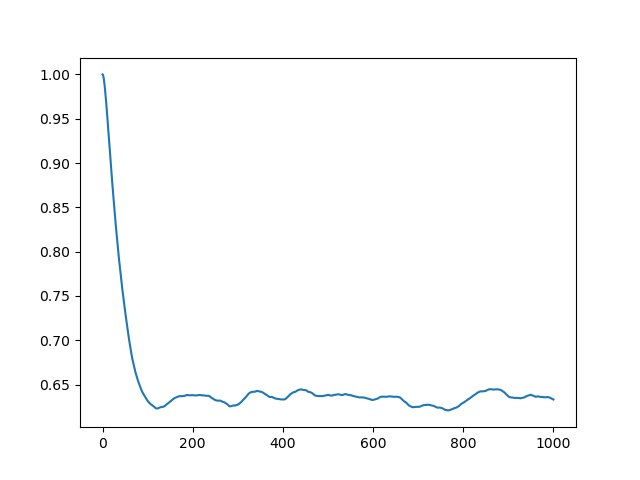
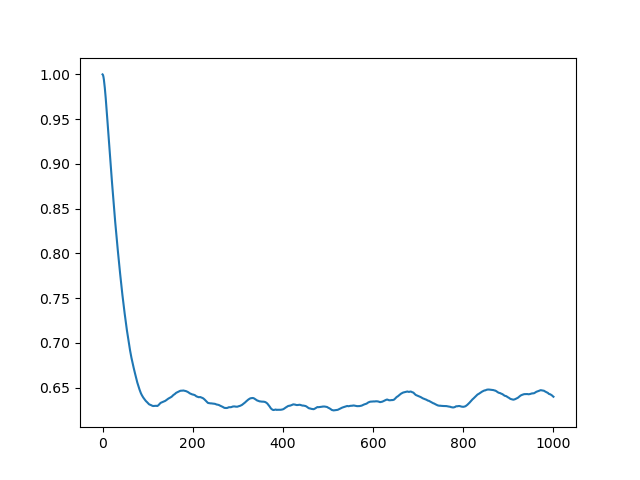
network update

diff --git a/src/network.cpp b/src/network.cpp
@@ -23,6 +23,14 @@ const std::vector<double>& network::get_p() const {
     }
 
 
+#include <vector>
+#include <queue>
+#include <unordered_set>
+#include <unordered_map>
+#include <numeric>
+#include <algorithm>
+#include <iostream>
+
 NetworkPattern network::create_network(const int dim, const int lenght_network, const int num_of_samples,
                                        const double k, const double N_t, const int seed, const int type_N_t,
                                        const double p0, const double P0, const double a, const double alpha,
@@ -58,15 +66,22 @@ NetworkPattern network::create_network(const int dim, const int lenght_network, 
     for (int t = 1; t < num_of_samples; ++t) {
         int N_current = 0;
         std::queue<std::pair<int, int>> nova_fronteira;
-        std::unordered_set<long long> ativados_nesta_etapa;
 
         while (!fronteira.empty()) {
             auto [x, y] = fronteira.front(); fronteira.pop();
 
-            // Vizinho "à frente" (linha abaixo)
-            std::vector<std::pair<int, int>> candidatos = {
-                {x + 1, y}, {x, y - 1}, {x, y + 1}
-            };
+            std::vector<std::pair<int, int>> candidatos;
+
+            if (type_percolation == "bond") {
+                // vertical
+                candidatos.push_back({x + 1, y});
+                // lateral
+                candidatos.push_back({x, y - 1});
+                candidatos.push_back({x, y + 1});
+            } else {
+                // site percolation - apenas posição abaixo
+                candidatos.push_back({x + 1, y});
+            }
 
             for (auto& [nx, ny] : candidatos) {
                 if (nx < 0 || nx >= num_of_samples || ny < 0 || ny >= lenght_network) continue;
@@ -77,7 +92,6 @@ NetworkPattern network::create_network(const int dim, const int lenght_network, 
                 if (r < p[t - 1]) {
                     net.set({nx, ny}, 1);
                     nova_fronteira.push({nx, ny});
-                    ativados_nesta_etapa.insert(h);
                     N_current++;
                 }
                 visitados.insert(h);
@@ -96,6 +110,7 @@ NetworkPattern network::create_network(const int dim, const int lenght_network, 
 
     return net;
 }
+
 
 
 

diff --git a/README.md b/README.md
@@ -19,11 +19,6 @@ make
 sudo make install
 ```
 
-# To install *cnpy.h* (linux ubuntu)
-```bash
-sudo apt install libzip-dev
-```
-
 # To install *zlib* (linux ubuntu)
 ```bash
 sudo apt install zlib1g-dev
